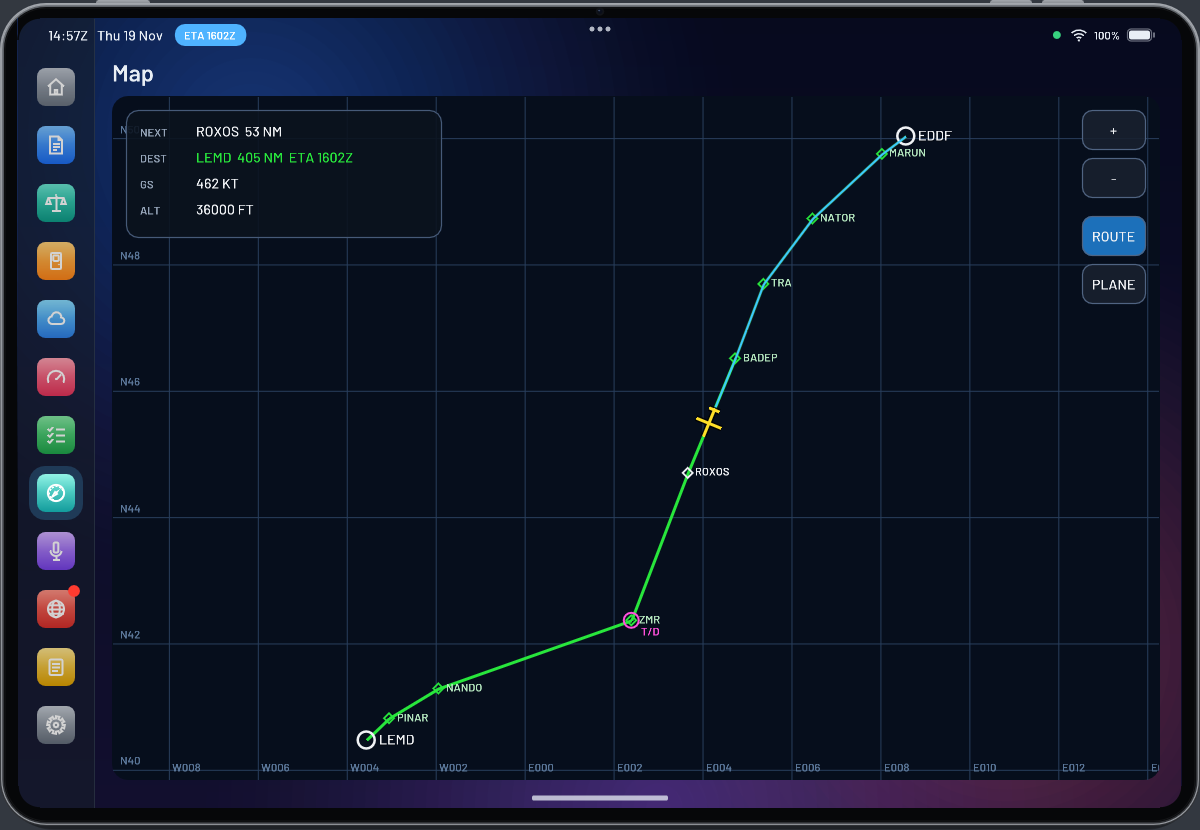
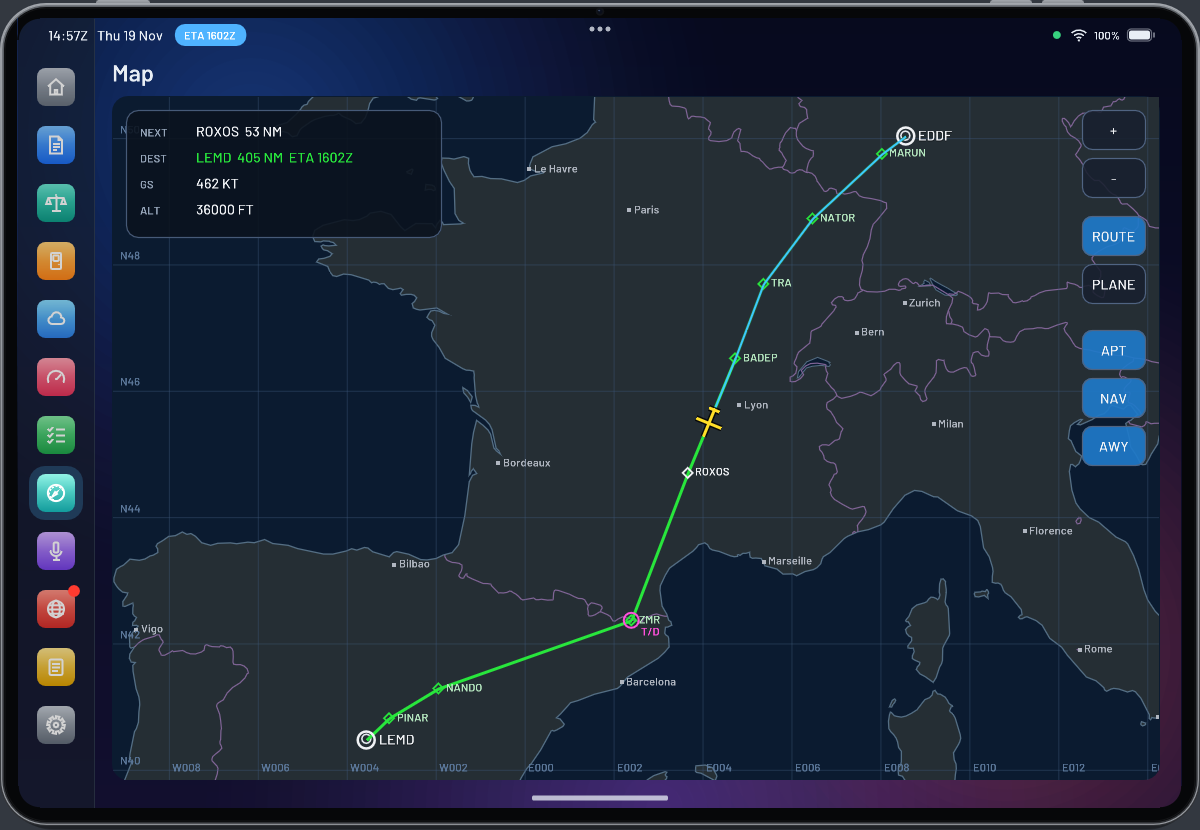
ToLiSS EFB v0.9.0

diff --git a/README.md b/README.md
@@ -23,8 +23,10 @@ Everything is drawn in code and nothing is copied from any other product.
 | ![Perf](docs/screenshots/perf_calc.png) | ![Wallpaper](docs/screenshots/home_wallpaper.png) |
 | **Landing calculator** | **Map** |
 | ![Landing](docs/screenshots/landing_calc.png) | ![Map](docs/screenshots/map.png) |
-| **Logbook and landing rate** | **In flight: live ETA** |
-| ![Logbook](docs/screenshots/logbook.png) | ![In flight](docs/screenshots/home_inflight.png) |
+| **Map, zoomed in: airports, VORs, NDBs, airways** | **In flight: live ETA** |
+| ![Map detail](docs/screenshots/map_detail.png) | ![In flight](docs/screenshots/home_inflight.png) |
+| **Logbook and landing rate** | |
+| ![Logbook](docs/screenshots/logbook.png) | |
 
 ## Apps
 
@@ -37,7 +39,7 @@ Everything is drawn in code and nothing is copied from any other product.
 | **Weather** | METAR and TAF from aviationweather.gov, with quick chips for origin, destination, alternate and nearest. Decodes wind, visibility, ceiling, temperature and QNH, and shows a flight-category badge. |
 | **Performance** | **Takeoff calculator** and **landing calculator** laid out like the ToLiSS ones (see below), plus the SimBrief takeoff/landing reports and a wind-component calculator. |
 | **Checklists** | Tap-through normal checklists by phase, with progress and a "next item" highlight. |
-| **Map** | Moving map like a navigation display: the SimBrief route with its waypoints and top of descent, the airports and their runways, the track you flew and your aircraft. Next waypoint, distance to go and ETA. Drag to move, + / - to zoom, ROUTE / PLANE to switch views. |
+| **Map** | An aviation chart: land and sea, coastlines, country borders, lakes and cities, plus X-Plane's own airports, VORs, NDBs and airways (they appear as you zoom in; APT / NAV / AWY switch them). On top: the SimBrief route with its waypoints and top of descent, the track you flew and your aircraft. Next waypoint, distance to go and ETA. Drag to move, + / - or the mouse wheel to zoom, ROUTE / PLANE to switch views. |
 | **Logbook** | Every flight is logged by itself at ON BLOCKS: OUT/OFF/ON/IN, block and air time, fuel used and the **landing rate** (ft/min, G and a grade from BUTTER to HARD), which also pops up right after touchdown. Totals, average and best landing, and an Export CSV button. |
 | **Airline** | AOC messages with your airline (see below) and the **Levant VA** website (https://levant-va.com/), opened in your web browser. The name and address can be changed. |
 | **Settings** | SimBrief ID, kg/lb, passenger weight, cargo split, boarding/cargo/refuel rates, night/day theme, accent colour, **iPad finish** (Space Grey, Silver, Starlight, Blue), brightness and window behaviour. **Background:** gradient presets, three bundled wallpapers or **your own picture**. Press *Upload picture...* to open your computer's file picker, or paste a link to a JPG/PNG. Uploads are kept in `Output/preferences/toliss_efb_wallpapers`, so plugin updates don't delete them. There's also a dim slider. **Cockpit:** calibration of the 3D tablet. **Diagnostics:** dataref mapping (green = found, red = missing) and a live **Explorer** of every dataref. |
@@ -183,4 +185,4 @@ aircraft and the plugin's recent log (your folder names removed). You can also
 ## Licences
 
 ToLiSS EFB: © 2026 Abdulkareem Samman (see `LICENSE`). It includes Dear ImGui (MIT), nlohmann/json (MIT), and the
-Barlow, IBM Plex Mono and B612 fonts (SIL Open Font License 1.1).
+Barlow, IBM Plex Mono and B612 fonts (SIL Open Font License 1.1). Map base layer: Natural Earth (public domain).

diff --git a/CHANGELOG.md b/CHANGELOG.md
@@ -3,6 +3,11 @@
 Each version has a one-line summary (used for the Discord announcements and the release list)
 followed by the details.
 
+## 0.9.0 - 2026-11-21 - The Map becomes an aviation chart
+- Land and sea, coastlines, country borders, lakes and cities (Natural Earth, works offline)
+- X-Plane's own airports, VORs, NDBs and airways, shown as you zoom in; APT / NAV / AWY buttons
+- Your Navigraph data is used when it's in X-Plane's Custom Data folder
+
 ## 0.8.1 - 2026-11-21 - Map buttons, ToLiSS vehicles and doors
 - Map: the + / - / ROUTE / PLANE buttons work; ROUTE shows the route even when the aircraft is parked far away
 - ToLiSS vehicles: animation datarefs are no longer picked by themselves (they can't remove a vehicle)
